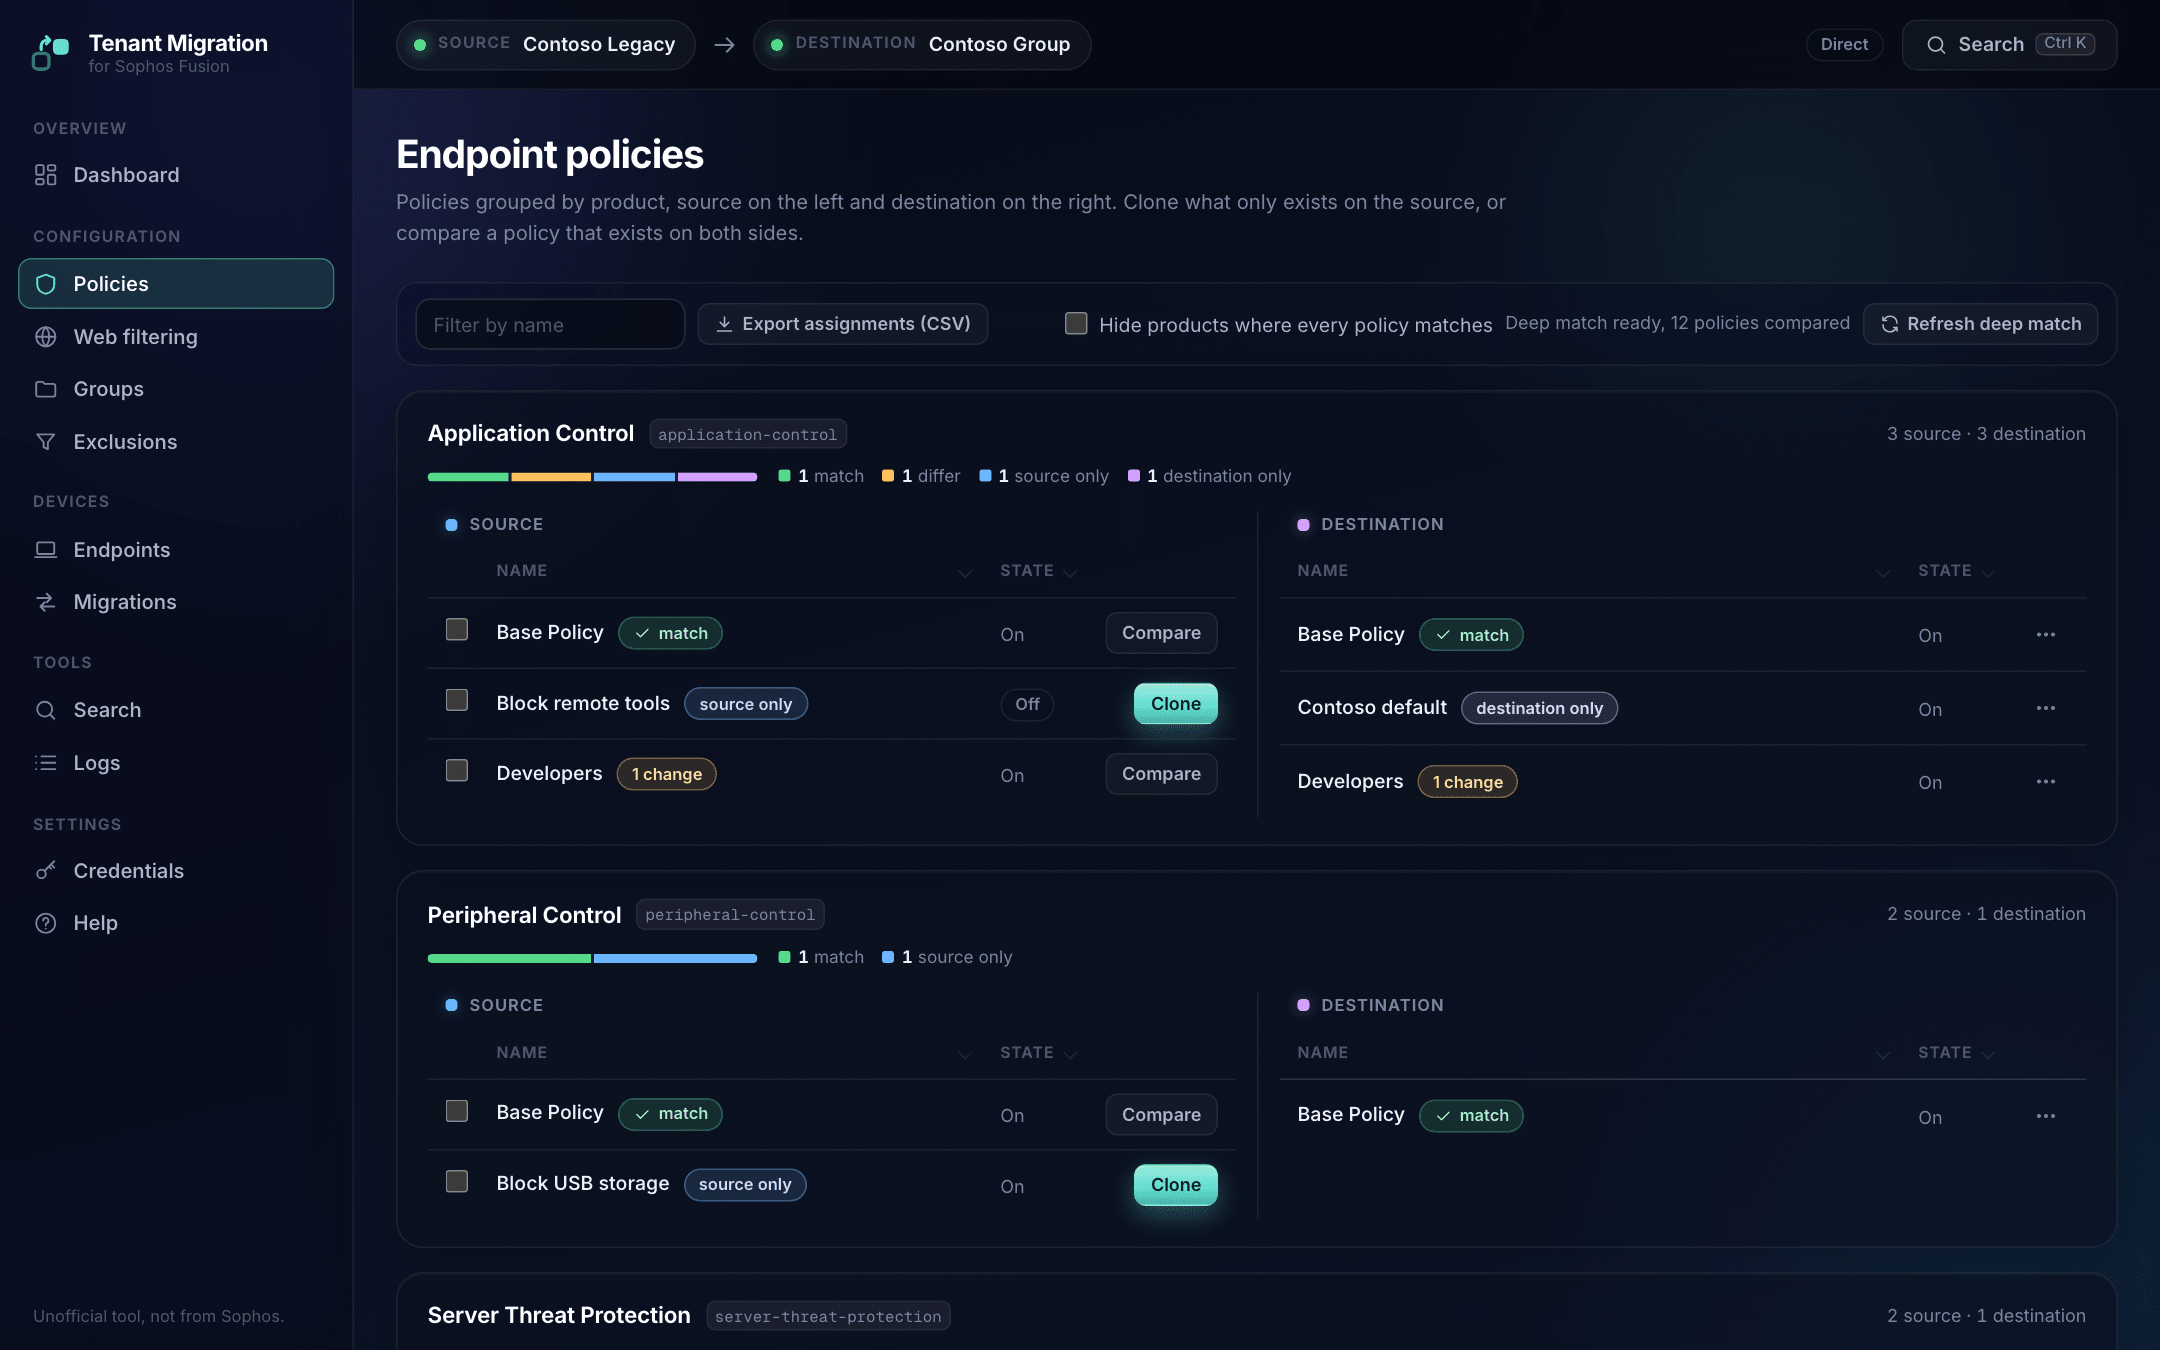
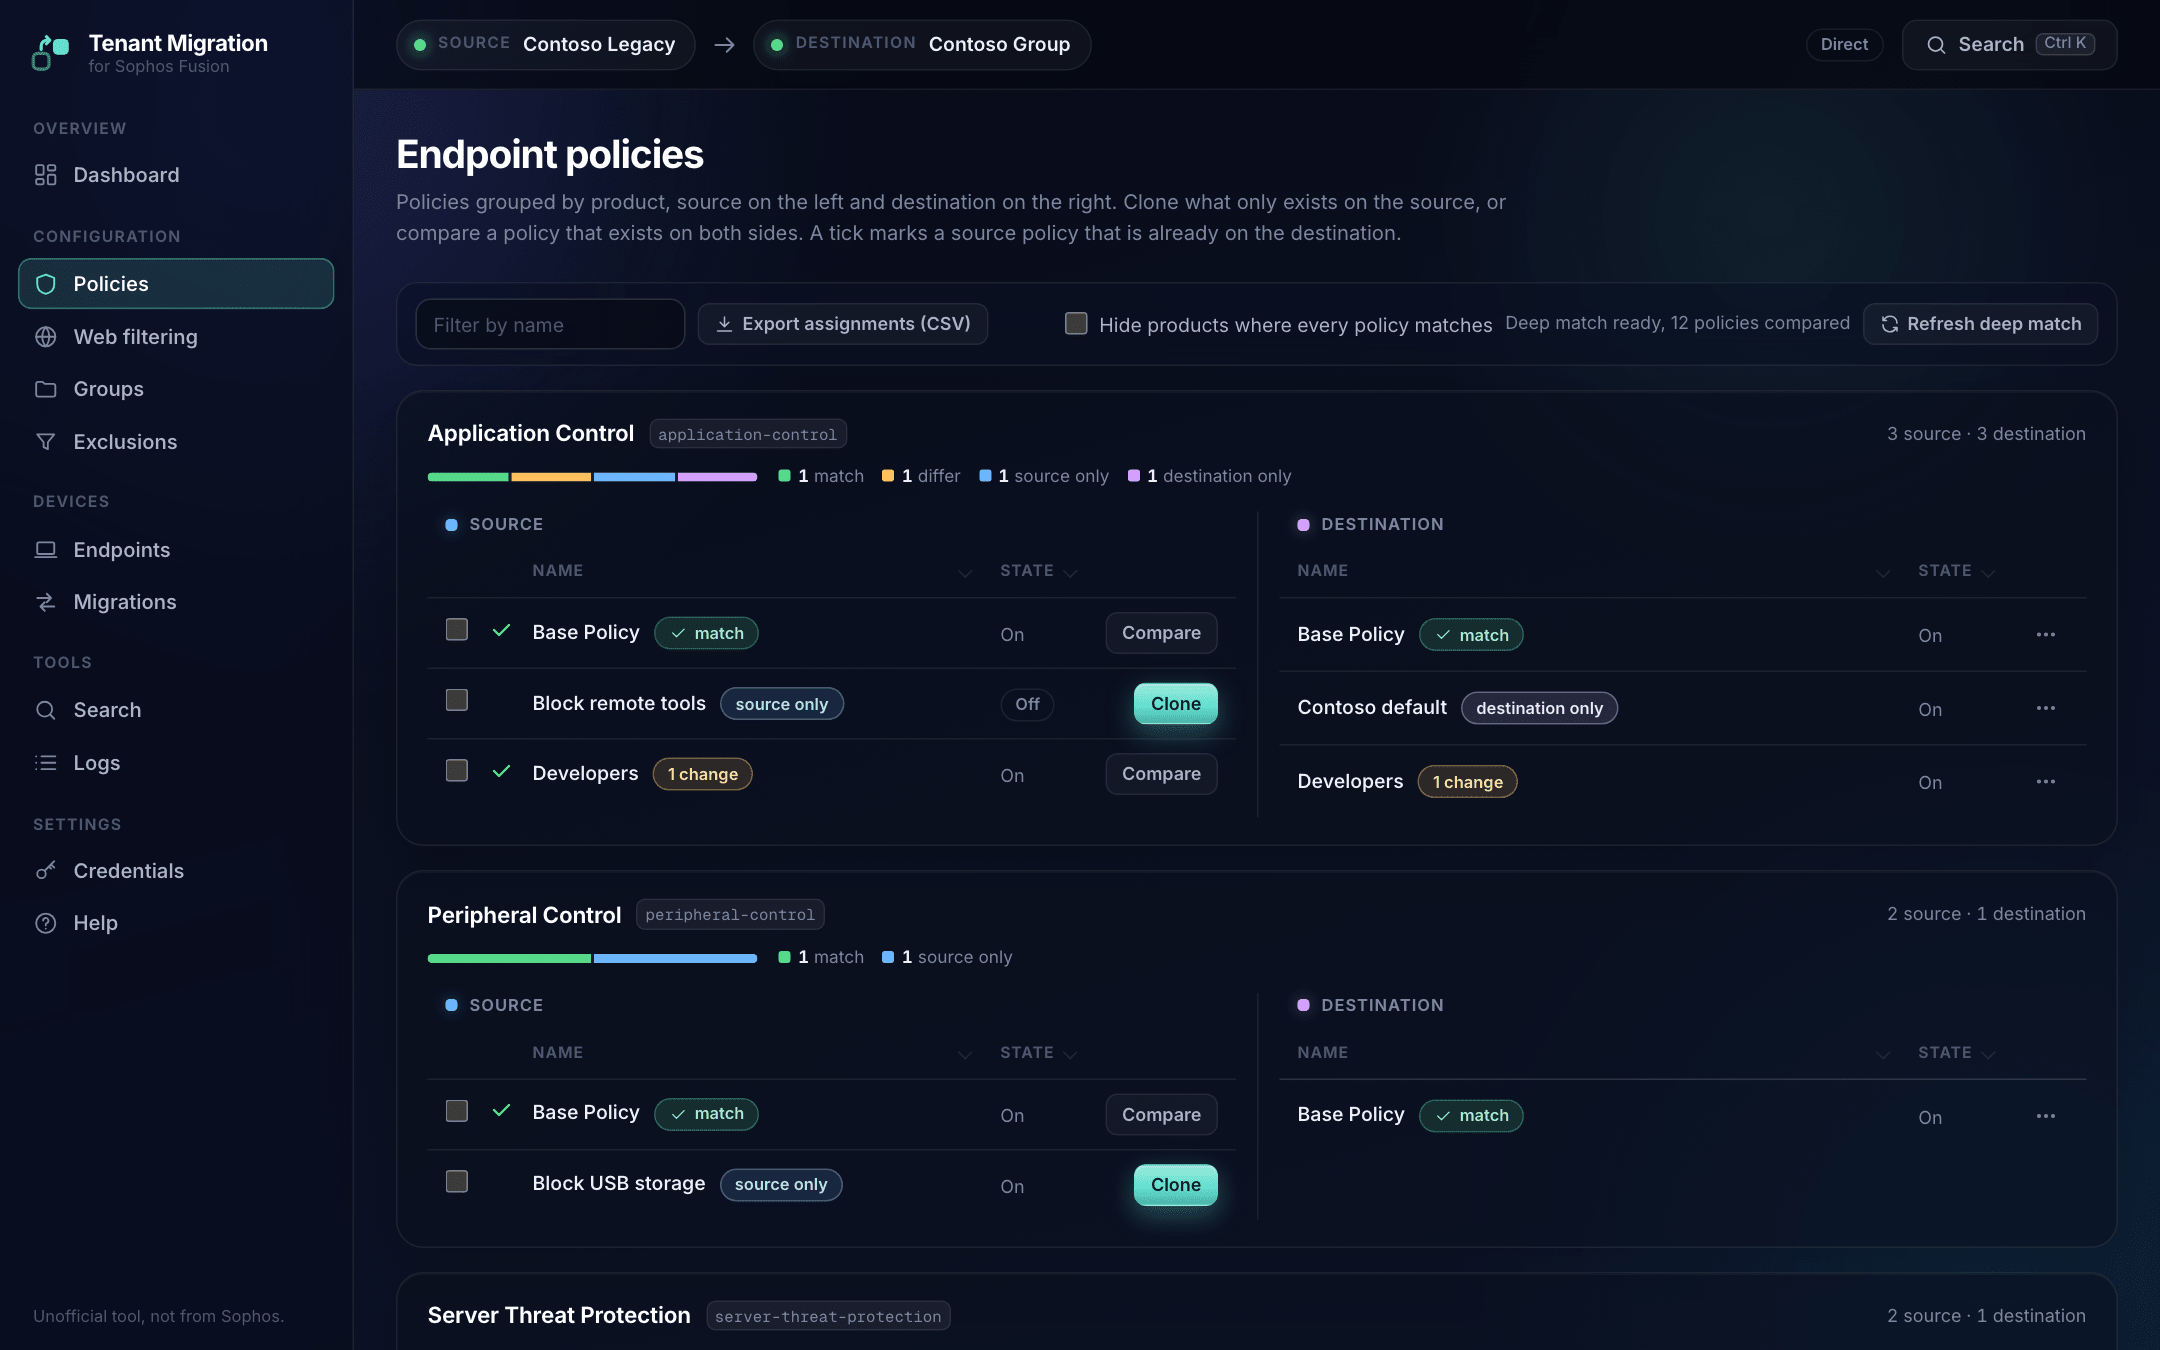
docs: README for ticks, results lists and web profiles by name, with new screenshots
The README now says which pages tick source rows already on the destination,
that group mirrors and policy clones end with a results list, that user
groups already on the destination are skipped, and that the deep match and
Compare show web profiles by name. The Policies and dashboard screenshots are
taken again from the fake API with the same size and framing. The docs folder
no longer claims to hold a test plan.

diff --git a/README.md b/README.md
@@ -26,25 +26,25 @@ A first-run wizard walks through either mode, tests the connection before saving
 
 Endpoint policies are grouped by product, source on the left and destination on the right. A deep match reads the full settings of every policy that exists on both sides, and each product shows a small bar of how many policies match, differ, or exist on one side only. You can hide products where everything matches.
 
-![Policies page. Application Control has one policy that matches, one that differs by one setting, one on the source only with a Clone button, and one on the destination only](docs/policies.png)
+![Policies page. Application Control has one policy that matches and one that differs by one setting, both ticked as already on the destination, one on the source only with a Clone button, and one on the destination only](docs/policies.png)
 
-Compare opens one table of settings grouped by section, with readable labels (the raw setting key shows when you hover a row). Clone copies a source-only policy to the bottom of the destination's priority order, just above the base policy, and Compare offers to overwrite a destination policy with the source version. Destination policies can be deleted from a row menu after a double confirmation.
+Compare opens one table of settings grouped by section, with readable labels (the raw setting key shows when you hover a row). A tick marks a source policy that is already on the destination. Clone copies a source-only policy to the bottom of the destination's priority order, just above the base policy, and ends with a list of each policy marked created, already there, or failed, with notes on settings changed to fit. Compare offers to overwrite a destination policy with the source version. Destination policies can be deleted from a row menu after a double confirmation.
 
 Policy assignments cannot be migrated because the public API rejects every `appliesTo` write. Export assignments (CSV) lists them so you can reassign them by hand.
 
-When a web control policy points at a web filtering profile, the clone maps the profile ID to the destination profile with the same name. If the destination has no such profile, the setting is dropped and the result says so.
+When a web control policy points at a web filtering profile, the clone maps the profile ID to the destination profile with the same name. If the destination has no such profile, the setting is dropped and the result says so. The deep match and Compare show the profile by name, so a correct clone matches.
 
 ### Web filtering
 
-Site lists and web filtering profiles copy to the destination. Copy site lists first: a profile refers to site lists by ID, and the copy maps each one to the destination list with the same name. Profile links to policies are not copied; cloning the web control policy makes the link. A copy ends with a list of what was created, with notes on anything that was mapped or left out. Destination site lists and profiles can be deleted from a row menu to undo a copy, after a preview and a double confirmation; each delete is audited.
+Site lists and web filtering profiles copy to the destination. Copy site lists first: a profile refers to site lists by ID, and the copy maps each one to the destination list with the same name. Profile links to policies are not copied; cloning the web control policy makes the link. A copy ends with a list of what was created, with notes on anything that was mapped or left out. A tick marks a source list or profile that is already on the destination. Destination site lists and profiles can be deleted from a row menu to undo a copy, after a preview and a double confirmation; each delete is audited.
 
 ### Groups
 
-Endpoint groups and user groups mirror to the destination by name and description. Members are not copied, because source device IDs mean nothing on the destination. After a device move, the job page can add each moved device to the destination group with the same name as its source group, so policies assigned to that group follow it.
+Endpoint groups and user groups mirror to the destination by name and description. A group already on the destination, matched by name in any case, is skipped, and a tick marks it on the source side. A mirror ends with a list of every group marked created, already there, or failed. Members are not copied, because source device IDs mean nothing on the destination. After a device move, the job page can add each moved device to the destination group with the same name as its source group, so policies assigned to that group follow it.
 
 ### Exclusions and lists
 
-Eight global lists copy with the same duplicate check: scanning exclusions, allowed items, blocked items, isolation exclusions, intrusion prevention exclusions, custom exploit mitigation applications, Website Management entries, and websites excluded from TLS decryption. A copy ends with a list of every item marked created, already there, or failed. Rows that already exist on both sides are dimmed. Copy the Website Management entries before cloning web control policies, because those policies refer to their tags.
+Eight global lists copy with the same duplicate check: scanning exclusions, allowed items, blocked items, isolation exclusions, intrusion prevention exclusions, custom exploit mitigation applications, Website Management entries, and websites excluded from TLS decryption. A copy ends with a list of every item marked created, already there, or failed. Rows that exist on both sides are dimmed, and a tick marks a source item that is already on the destination. Copy the Website Management entries before cloning web control policies, because those policies refer to their tags.
 
 ### Device migration
 
@@ -162,7 +162,7 @@ frontend/                        # Plain HTML and ES modules, no build step
 
 test/                            # node:test suites against a fake Sophos API
 
-docs/                            # README screenshots (made against the fake API) and the Windows test plan
+docs/                            # README screenshots (made against the fake API)
 
 data/                            # Created at run time, not committed
   migration-jobs.json            # Local migration jobs
